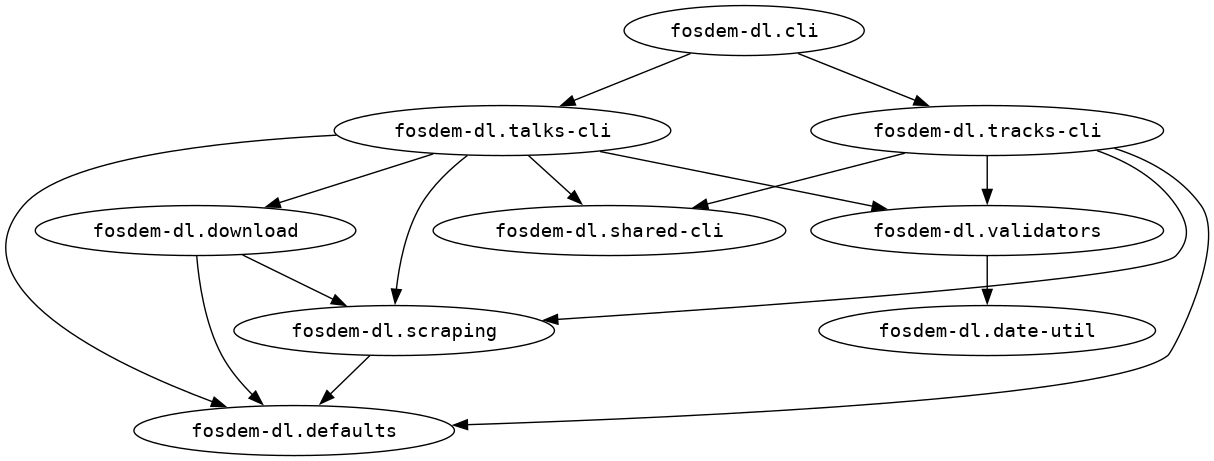
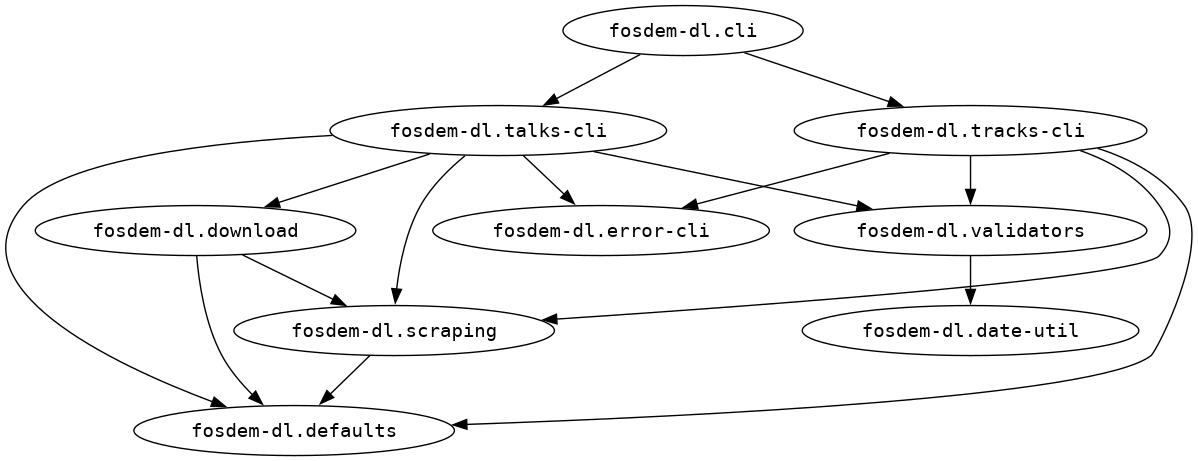
improve error handling

diff --git a/README.md b/README.md
@@ -2,11 +2,13 @@
 
 ![CI/CD](https://github.com/jackdbd/fosdem-dl/actions/workflows/ci-cd.yml/badge.svg)
 
-[babashka](https://github.com/babashka/babashka) script to download talks and attachments from the 2003-2020 [FOSDEM](https://fosdem.org/2021/) websites.
+CLI to download talks from [FOSDEM](https://fosdem.org/) websites.
 
 ![Dependency graph of all the namespaces](./resources/img/namespaces.png)
 
 ## Usage
+
+The CLI has two commands: `talks` and `tracks`.
 
 ```sh
 fosdem-dl talks --help
@@ -15,16 +17,22 @@ fosdem-dl tracks --help
 
 ## Examples
 
-Download all talks from the python track of FOSDEM 2018, in .webm format, with no attachments.
+List all tracks at FOSDEM 2020.
+
+```sh
+fosdem-dl tracks -y 2023
+```
+
+Download all videos of the FOSDEM 2018 python track, in .webm format.
 
 ```sh
 fosdem-dl talks -y 2018 -t python
 ```
 
-Download all talks of the web performance track from FOSDEM 2020, in .mp4 format, with all attachments.
+Download all videos and attachments of the FOSDEM 2020 web performance track, in .mp4 format.
 
 ```sh
-fosdem-dl -y 2020 -t web_performance -f mp4 -a
+fosdem-dl talks -y 2020 -t web_performance -f mp4 -a
 ```
 
 ## Tests
